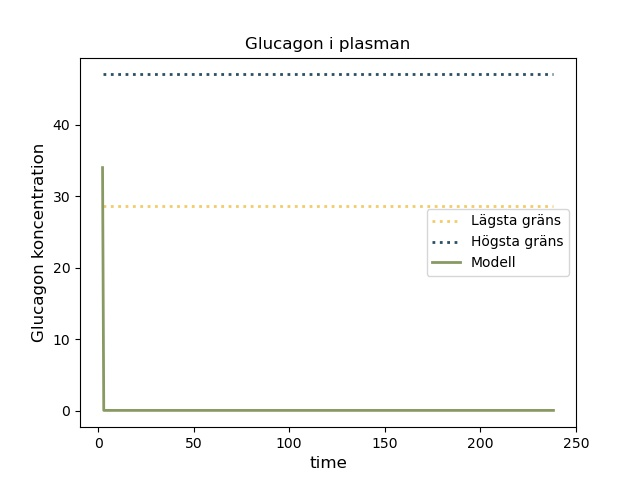
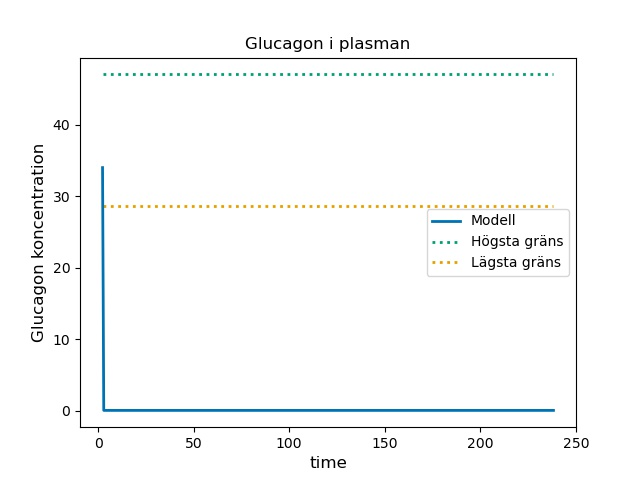
color changes

diff --git a/optimering/plot_open_loop.py b/optimering/plot_open_loop.py
@@ -7,9 +7,6 @@ import scipy.integrate as integrate
 # Colour-blind friendly palette (use nice colors)
 cb_palette1 = ["#999999", "#E69F00", "#56B4E9", "#009E73", "#F0E442", "#0072B2", "#D55E00", "#CC79A7"]
 
-# [Mörkblå, Gul, Ockraröd, Mörkgrön ,Olivgrön ,Ljusbeige (dålig), Ljusgult (dålig), Gul ]
-cb_palette2 = ["#F4E3AF", "#F1CB6F", "#E16F3B", "#2D4E63", "#899964", "#F4E3AF", "#F1CB6F", "#E16F3B"]
-
 # Hämta data
 data_G = pd.read_csv ('data_horses\Glukos_new_FFaraber.csv', sep=';')
 data_I = pd.read_csv ('data_horses\insulin_new_FFaraber.csv', sep=';')
@@ -96,11 +93,11 @@ yM2_coordinates = [13,13]  # mmol (human)
 # plotta glukos
 lw = 2.0
 plot1 = plt.figure(1)
-line1, = plt.plot(xG_coordinates, yG1_coordinates, linestyle=":", linewidth=lw, color=cb_palette2[1])
-line2, = plt.plot(xG_coordinates, yG2_coordinates, linestyle=":", linewidth=lw, color=cb_palette2[3])
-line3, = plt.plot(data_G['tid'].values, data_G['konc'].values, label = 'Glukos', linestyle="-", linewidth=lw, color=cb_palette2[2])
-line4, = plt.plot(data_G['tid'].values, G_model, label = 'Glukos', linestyle="-", linewidth=lw, color=cb_palette2[7])
-plt.legend((line1, line2, line3, line4), ("Lägsta gräns", "Högsta gräns", "Data","modell"))
+line1, = plt.plot(xG_coordinates, yG1_coordinates, linestyle=":", linewidth=lw, color=cb_palette1[1])
+line2, = plt.plot(xG_coordinates, yG2_coordinates, linestyle=":", linewidth=lw, color=cb_palette1[3])
+line3, = plt.plot(data_G['tid'].values, data_G['konc'].values, label = 'Glukos', linestyle="-", linewidth=lw, color=cb_palette1[7])
+line4, = plt.plot(data_G['tid'].values, G_model, label = 'Glukos', linestyle="-", linewidth=lw, color=cb_palette1[5])
+plt.legend((line4, line3, line2, line1), ("Modell", "Data", "Högsta gräns","Lägsta gräns"))
 plt.xlabel("time", fontsize=12), plt.ylabel("Glukos koncentration", fontsize=12)
 plt.title("Glucose in plasma")
 
@@ -117,11 +114,11 @@ plt.savefig(path_fig)
 # plotta insulin
 lw = 2.0
 plot1 = plt.figure(2)
-line1, = plt.plot(xI_coordinates, yI1_coordinates, linestyle=":", linewidth=lw, color=cb_palette2[1])
-line2, = plt.plot(xI_coordinates, yI2_coordinates, linestyle=":", linewidth=lw, color=cb_palette2[3])
-line3, = plt.plot(data_I['tid'].values, data_I['conc'].values, label = 'Insulin', linestyle="-", linewidth=lw, color=cb_palette2[4])
-line4, = plt.plot(data_I['tid'].values, I_model, label = 'Insulin', linestyle="-", linewidth=lw, color=cb_palette2[7])
-plt.legend((line1, line2, line3, line4), ("Lägsta gräns", "Högsta gräns", "Data","modell"))
+line1, = plt.plot(xI_coordinates, yI1_coordinates, linestyle=":", linewidth=lw, color=cb_palette1[6])
+line2, = plt.plot(xI_coordinates, yI2_coordinates, linestyle=":", linewidth=lw, color=cb_palette1[3])
+line3, = plt.plot(data_I['tid'].values, data_I['conc'].values, label = 'Insulin', linestyle="-", linewidth=lw, color=cb_palette1[7])
+line4, = plt.plot(data_I['tid'].values, I_model, label = 'Insulin', linestyle="-", linewidth=lw, color=cb_palette1[5])
+plt.legend((line4, line3, line2, line1), ("Modell", "Data", "Högsta gräns","Lägsta gräns"))
 plt.xlabel("time", fontsize=12), plt.ylabel("Insulin koncentration", fontsize=12)
 plt.title("Insulin in plasma")
 
@@ -138,10 +135,10 @@ plt.savefig(path_fig)
 # plotta glucagon
 lw = 2.0
 plot1 = plt.figure(3)
-line1, = plt.plot(xE_coordinates, yE1_coordinates, linestyle=":", linewidth=lw, color=cb_palette2[1])
-line2, = plt.plot(xE_coordinates, yE2_coordinates, linestyle=":", linewidth=lw, color=cb_palette2[3])
-line3, = plt.plot(data_G['tid'].values, E_model, label = 'Glucagon', linestyle="-", linewidth=lw, color=cb_palette2[4]) # Lägga till modellen
-plt.legend((line1, line2, line3), ("Lägsta gräns", "Högsta gräns", "Modell"))
+line1, = plt.plot(xE_coordinates, yE1_coordinates, linestyle=":", linewidth=lw, color=cb_palette1[1])
+line2, = plt.plot(xE_coordinates, yE2_coordinates, linestyle=":", linewidth=lw, color=cb_palette1[3])
+line3, = plt.plot(data_G['tid'].values, E_model, label = 'Glucagon', linestyle="-", linewidth=lw, color=cb_palette1[5]) # Lägga till modellen
+plt.legend((line3, line2, line1), ("Modell", "Högsta gräns", "Lägsta gräns"))
 plt.xlabel("time", fontsize=12), plt.ylabel("Glucagon koncentration", fontsize=12)
 plt.title("Glucagon i plasman")
 
@@ -158,10 +155,10 @@ plt.savefig(path_fig)
 # plotta Glukos i lever 
 lw = 2.0
 plot1 = plt.figure(4)
-line1, = plt.plot(xC_coordinates, yC1_coordinates, linestyle=":", linewidth=lw, color=cb_palette2[1])
-line2, = plt.plot(xC_coordinates, yC2_coordinates, linestyle=":", linewidth=lw, color=cb_palette2[3])
-line3, = plt.plot(data_G['tid'].values, C_model, label = 'Glukos i levern', linestyle="-", linewidth=lw, color=cb_palette2[6]) # Lägga till modellen
-plt.legend((line1, line2, line3), ("Lägsta gräns", "Högsta gräns", "Modell"))
+line1, = plt.plot(xC_coordinates, yC1_coordinates, linestyle=":", linewidth=lw, color=cb_palette1[6])
+line2, = plt.plot(xC_coordinates, yC2_coordinates, linestyle=":", linewidth=lw, color=cb_palette1[3])
+line3, = plt.plot(data_G['tid'].values, C_model, label = 'Glukos i levern', linestyle="-", linewidth=lw, color=cb_palette1[5]) # Lägga till modellen
+plt.legend((line3, line2, line1), ("Modell", "Högsta gräns", "Lägsta gräns"))
 plt.xlabel("time", fontsize=12), plt.ylabel("Glukos koncentration", fontsize=12)
 plt.title("Glukos i levern")
 
@@ -178,10 +175,10 @@ plt.savefig(path_fig)
 # plotta Glukos i muskeln 
 lw = 2.0
 plot1 = plt.figure(5)
-line1, = plt.plot(xM_coordinates, yM1_coordinates, linestyle=":", linewidth=lw, color=cb_palette2[1])
-line2, = plt.plot(xM_coordinates, yM2_coordinates, linestyle=":", linewidth=lw, color=cb_palette2[3])
-line3, = plt.plot(data_G['tid'].values, M_model, label = 'Glukos i muskeln', linestyle="-", linewidth=lw, color=cb_palette2[7]) # Lägga till modellen
-plt.legend((line1, line2, line3), ("Lägsta gräns", "Högsta gräns", "Modell"))
+line1, = plt.plot(xM_coordinates, yM1_coordinates, linestyle=":", linewidth=lw, color=cb_palette1[6])
+line2, = plt.plot(xM_coordinates, yM2_coordinates, linestyle=":", linewidth=lw, color=cb_palette1[3])
+line3, = plt.plot(data_G['tid'].values, M_model, label = 'Glukos i muskeln', linestyle="-", linewidth=lw, color=cb_palette1[5]) # Lägga till modellen
+plt.legend((line3, line2, line1), ("Modell", "Högsta gräns", "Lägsta gräns"))
 plt.xlabel("time", fontsize=12), plt.ylabel("Glukos koncentration", fontsize=12)
 plt.title("Glukos i muskeln")
 plt.show()
